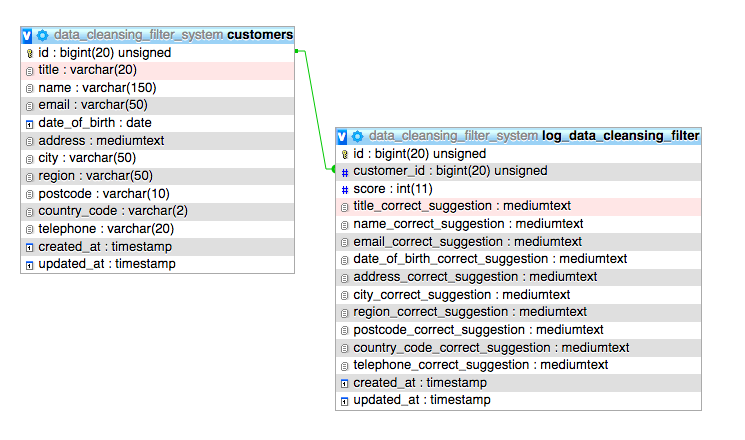
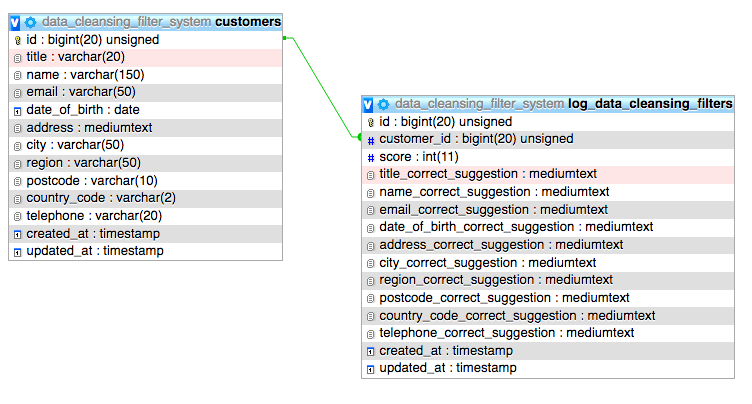
adding LogDataCleansingFilter model

diff --git a/database/migrations/2020_02_20_181606_create_log_data_cleansing_filters_table.php b/database/migrations/2020_02_20_181606_create_log_data_cleansing_filters_table.php
@@ -4,7 +4,7 @@ use Illuminate\Database\Migrations\Migration;
 use Illuminate\Database\Schema\Blueprint;
 use Illuminate\Support\Facades\Schema;
 
-class CreateLogDataCleansingFilterTable extends Migration
+class CreateLogDataCleansingFiltersTable extends Migration
 {
     /**
      * Run the migrations.
@@ -13,7 +13,7 @@ class CreateLogDataCleansingFilterTable extends Migration
      */
     public function up()
     {
-        Schema::create('log_data_cleansing_filter', function (Blueprint $table) {
+        Schema::create('log_data_cleansing_filters', function (Blueprint $table) {
             $table->bigIncrements('id');
             $table->bigInteger('customer_id')->unsigned();
             $table->integer('score');
@@ -30,7 +30,7 @@ class CreateLogDataCleansingFilterTable extends Migration
             $table->timestamps();
         });
 
-        Schema::table('log_data_cleansing_filter', function($table) {
+        Schema::table('log_data_cleansing_filters', function($table) {
             $table->foreign('customer_id')
                  ->references('id')->on('customers')
                  ->onDelete('cascade');
@@ -44,6 +44,6 @@ class CreateLogDataCleansingFilterTable extends Migration
      */
     public function down()
     {
-        Schema::dropIfExists('log_data_cleansing_filter');
+        Schema::dropIfExists('log_data_cleansing_filters');
     }
 }

diff --git a/tests/Feature/SystemTest.php b/tests/Feature/SystemTest.php
@@ -13,7 +13,7 @@ class SystemTest extends TestCase
         $response->assertStatus(200);
     }
 
-    public function testDisplayReport()
+    public function testDisplayEmptyReport()
     {
         $response = $this->get('/report');
         $response->assertStatus(200);

diff --git a/app/LogDataCleansingFilter.php b/app/LogDataCleansingFilter.php
@@ -1,0 +1,9 @@
+<?php
+
+namespace App;
+
+use Illuminate\Database\Eloquent\Model;
+
+class LogDataCleansingFilter extends Model
+{
+}

diff --git a/docs/database-structure.md b/docs/database-structure.md
@@ -1,6 +1,6 @@
 Database Structure
 ==================
 
-Database is using `MySQL`. There are 2 tables to store the data: customers, and log_data_cleansing_filter with the following relation:
+Database is using `MySQL`. There are 2 tables to store the data: customers, and log_data_cleansing_filters with the following relation:
 
 ![Db structure](/docs/image/table-relation.png)

diff --git a/docs/testing.md b/docs/testing.md
@@ -23,7 +23,6 @@ DB_PASSWORD=
 ```bash
 php artisan database:create --env=testing
 php artisan migrate --env=testing
-php artisan db:seed --env=testing
 ```
 
 After it, you can run:

diff --git a/docs/installation.md b/docs/installation.md
@@ -26,7 +26,6 @@ DB_PASSWORD=
 ```
 php artisan database:create
 php artisan migrate
-php artisan db:seed
 ```
 
 4. Run Local Development Server:
